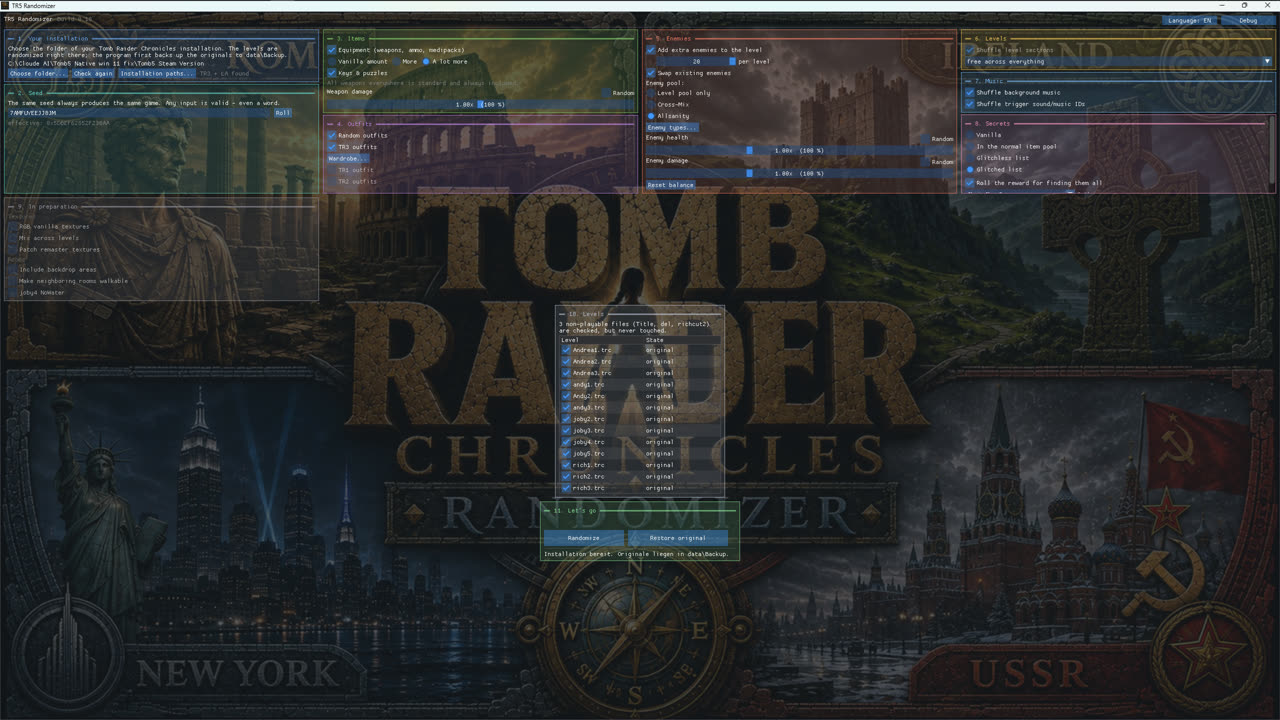
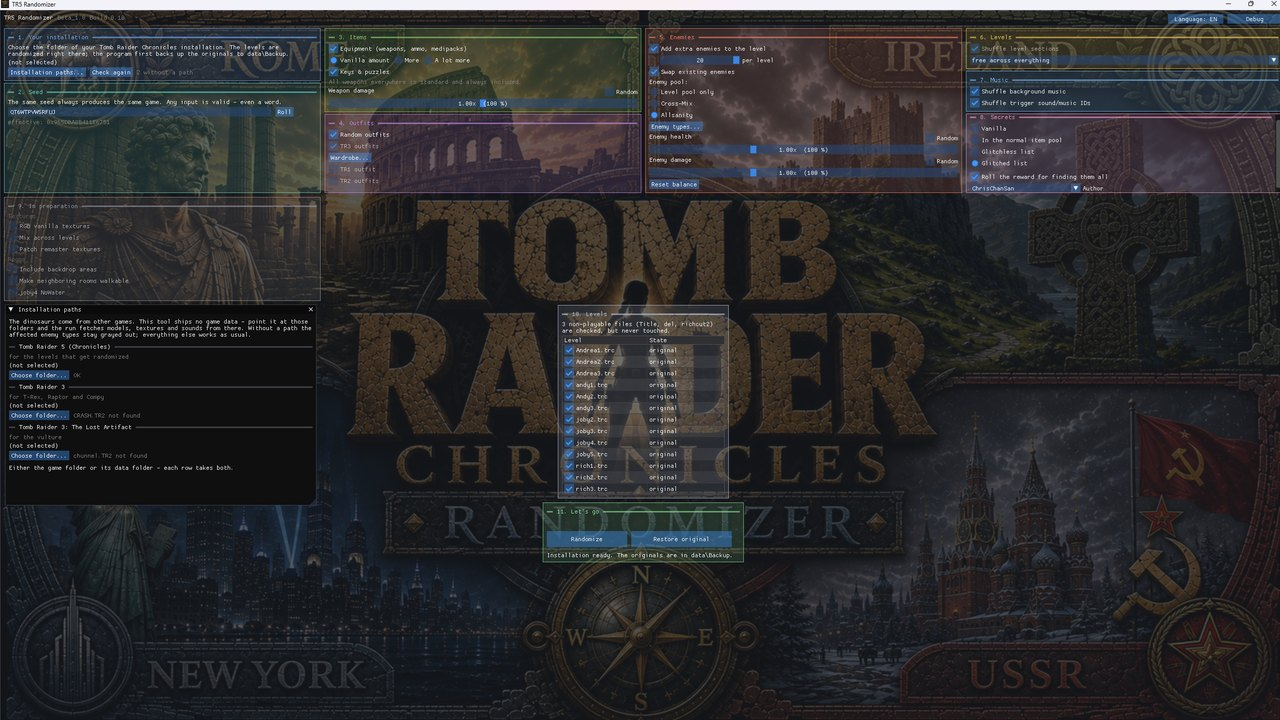
Fresh screenshots, and gui-settings was never the GUI
The two window shots on the landing page were stale three ways at once: a
German status line ("Installation bereit. Originale liegen in data\Backup.")
while the rest of the window was English, a "Choose folder..." button that
has since been removed, and the old work-tree name in the path. Replaced
with fresh captures.

gui-settings.jpg renamed to engine-settings.jpg, as the author pointed out.
The name was wrong from the start and so was every use of it: the image
shows Balance.txt and SecretRewards.txt side by side - engine text files,
not a randomizer window. It sat under "3. Items" in the randomizer manual,
where nothing on screen matches the heading, and on the landing page under
"Every switch has a tooltip that says what it does and what it costs", which
describes a GUI the picture does not contain. Removed from the items section
and moved to the Balance.txt chapter of the engine manual, where it is
actually what the text is about; the landing-page caption now says what is
in the picture.

New: features-3.jpg, the per-level secret counter in the pause screen, next
to the counter's own section in the engine manual and in the landing page's
feature table.

All image references in the three documents were resolved against the files
on disk afterwards: no dead links.

diff --git a/README.md b/README.md
@@ -46,8 +46,9 @@ report should carry.
 <tr>
 <td width="50%"><img src="docs/gui-outfits-enemies.jpg" alt="Wardrobe and enemy pool"><br>
 Pick what the wardrobe may draw, and which enemies belong in the pool.</td>
-<td width="50%"><img src="docs/gui-settings.jpg" alt="Settings"><br>
-Every switch has a tooltip that says what it does and what it costs.</td>
+<td width="50%"><img src="docs/engine-settings.jpg" alt="Balance.txt and SecretRewards.txt"><br>
+Two plain text files beside the game: every enemy’s hit points and every
+weapon’s damage, and what each level awards for all its secrets.</td>
 </tr>
 </table>
 
@@ -91,6 +92,13 @@ loading bar and screen styles, ammo hotkeys, static lighting, level select.</td>
 <td width="50%"><img src="docs/features-2.jpg" alt="First person view options"><br>
 The first-person view, with field of view, a death camera, the head-bone
 look and how hard the camera is damped.</td>
+</tr>
+<tr>
+<td width="50%"><img src="docs/features-3.jpg" alt="Per-level secret counter"><br>
+The pause screen now counts the secrets of the level you are in, in
+brackets behind the campaign total — useful when the level order is rolled
+and you cannot tell from the sequence which level you are in.</td>
+<td width="50%"></td>
 </tr>
 <tr>
 <td><img src="docs/gui-language.jpg" alt="Language switching"><br>

diff --git a/docs/Engine-Manual.md b/docs/Engine-Manual.md
@@ -266,6 +266,8 @@ next track that starts.
 
 ## Balance.txt — tuning the whole game
 
+<p align="center"><img src="engine-settings.jpg" alt="Balance.txt and SecretRewards.txt" width="760"></p>
+
 A plain text file beside `PCTomb5.exe`, created on the first start and never
 touched again unless something is missing from it. Roughly eighty settings in
 six blocks, and **it documents itself**: every line prints its own default in
@@ -316,6 +318,8 @@ campaign total:
 ```
 Secrets Found            0 / 36   (0 / 3)
 ```
+
+<p align="center"><img src="features-3.jpg" alt="The statistics screen" width="700"></p>
 
 The first pair is the whole campaign, as it always was; the pair in brackets
 is the level you are in. Where a level holds no secrets the bracket is left

diff --git a/docs/Randomizer-Manual.md b/docs/Randomizer-Manual.md
@@ -160,8 +160,6 @@ Covered above: [The seed](#the-seed).
 
 ## 3. Items
 
-<p align="center"><img src="gui-settings.jpg" alt="Settings" width="700"></p>
-
 **"Equipment (weapons, ammo, medipacks)"** — *on by default.* Shuffles the
 level's non-key pickups among the spots curated for that level. Nothing is
 added or removed by this switch alone; the same things end up elsewhere.
